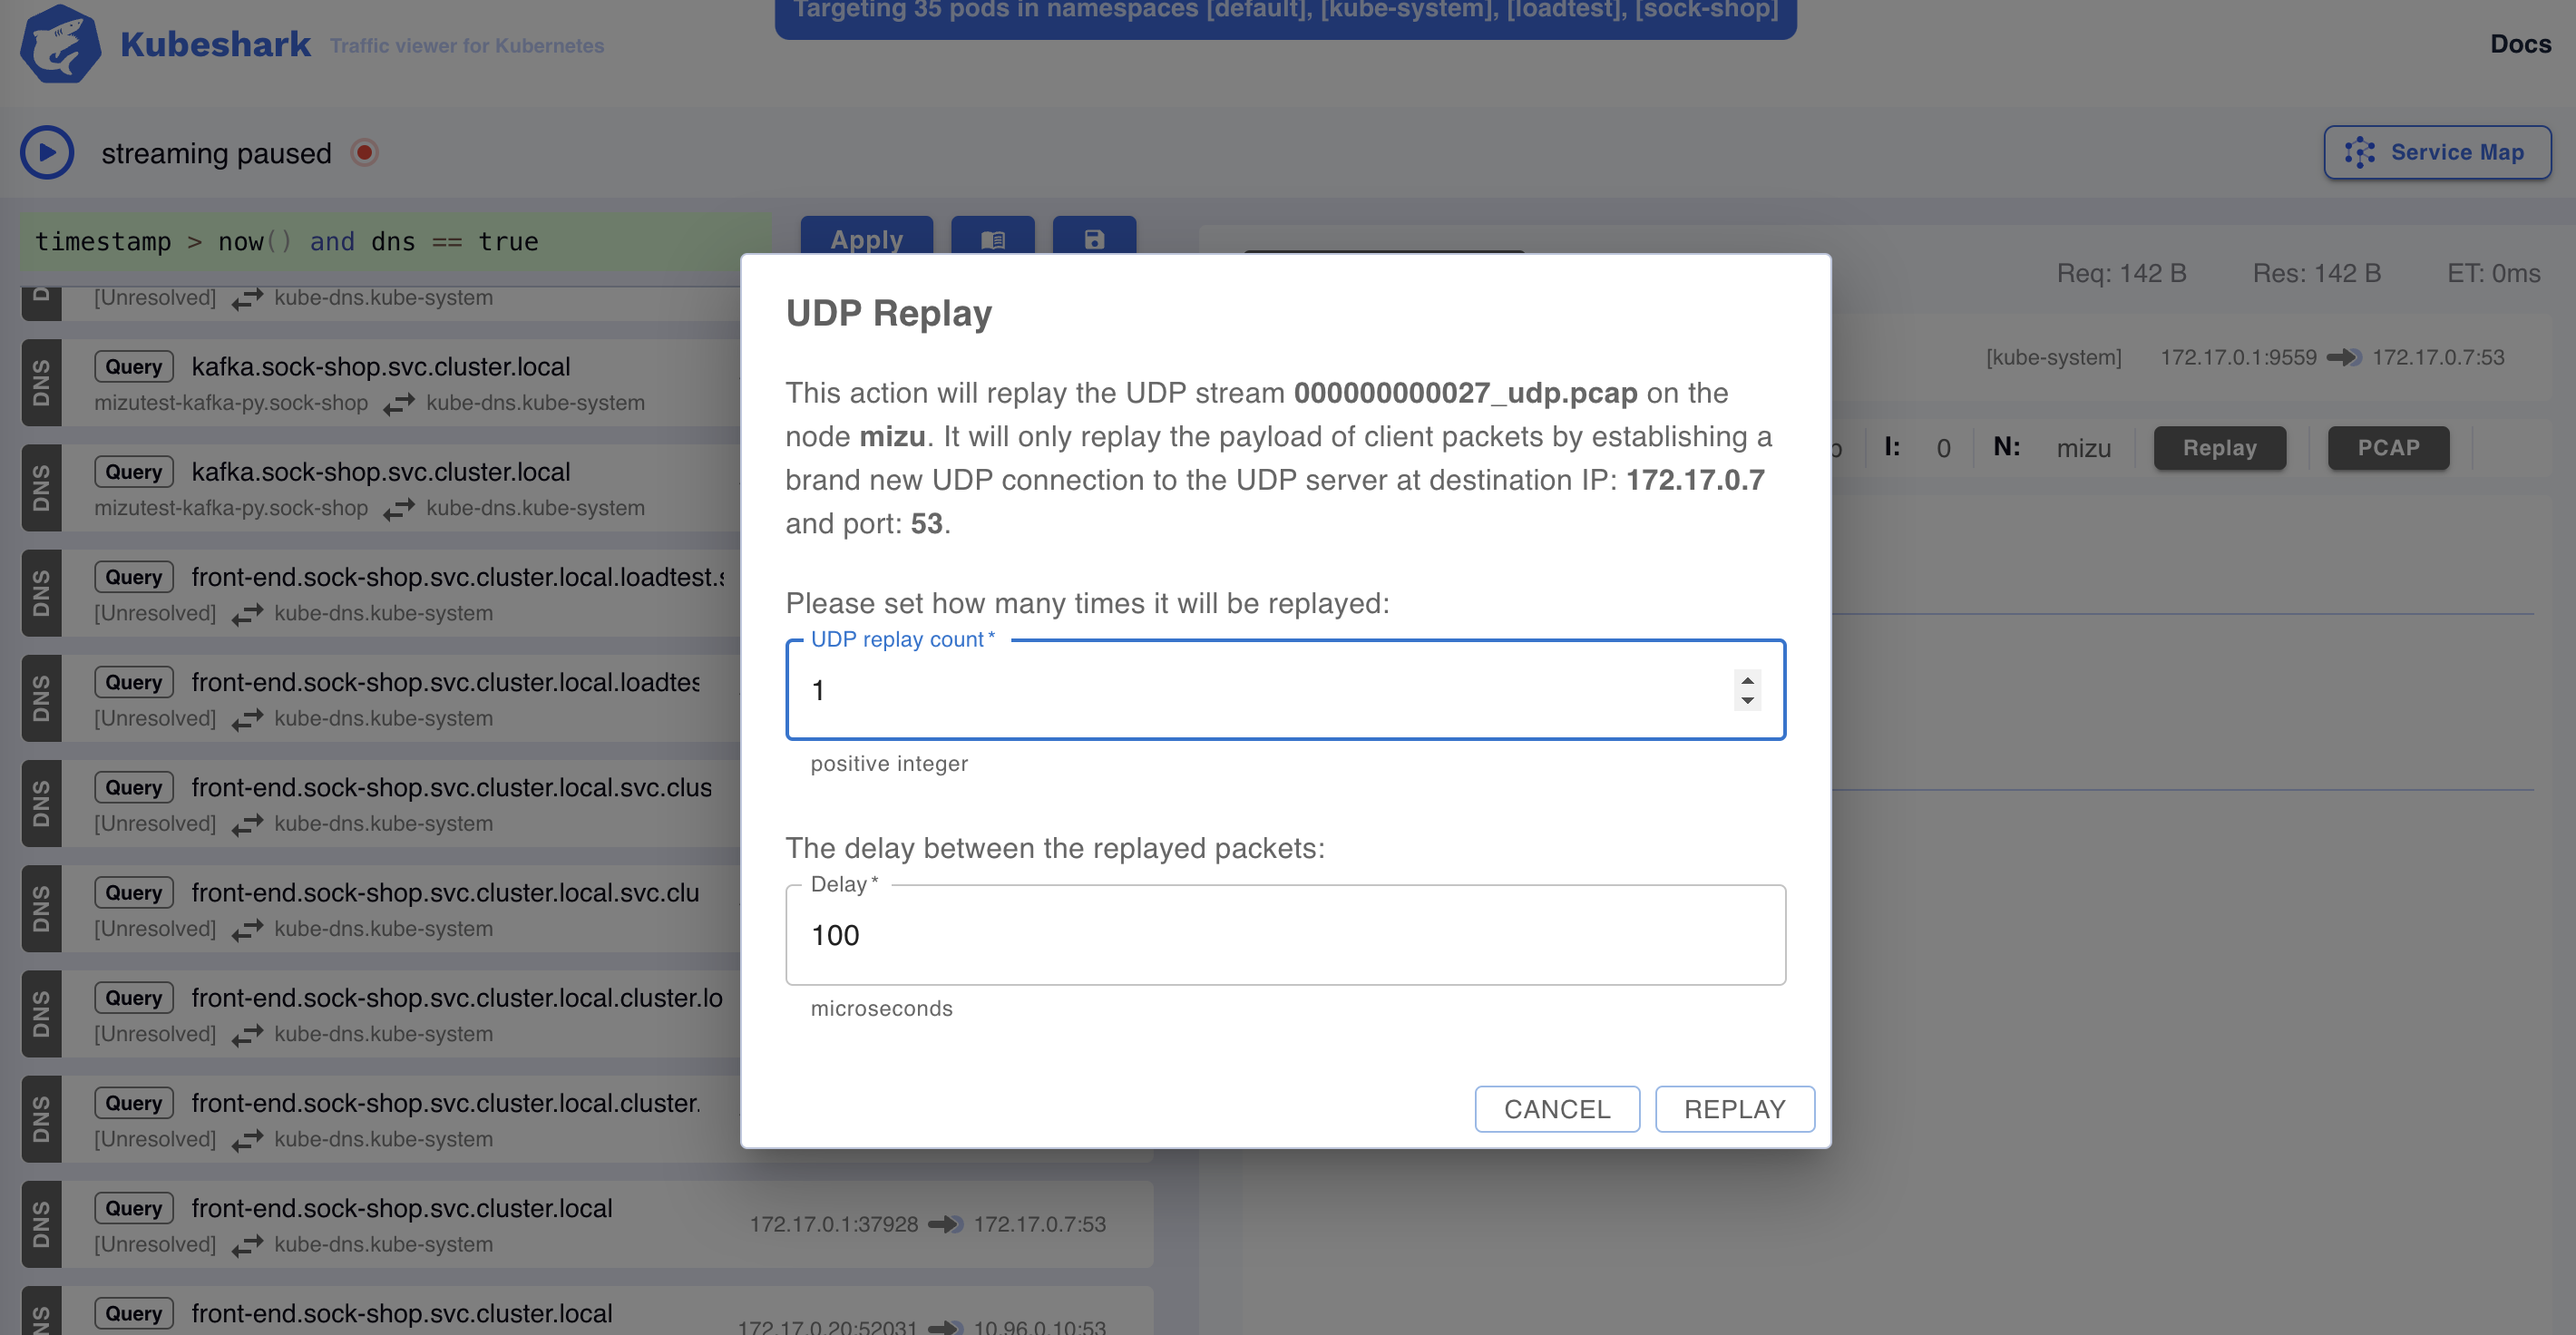
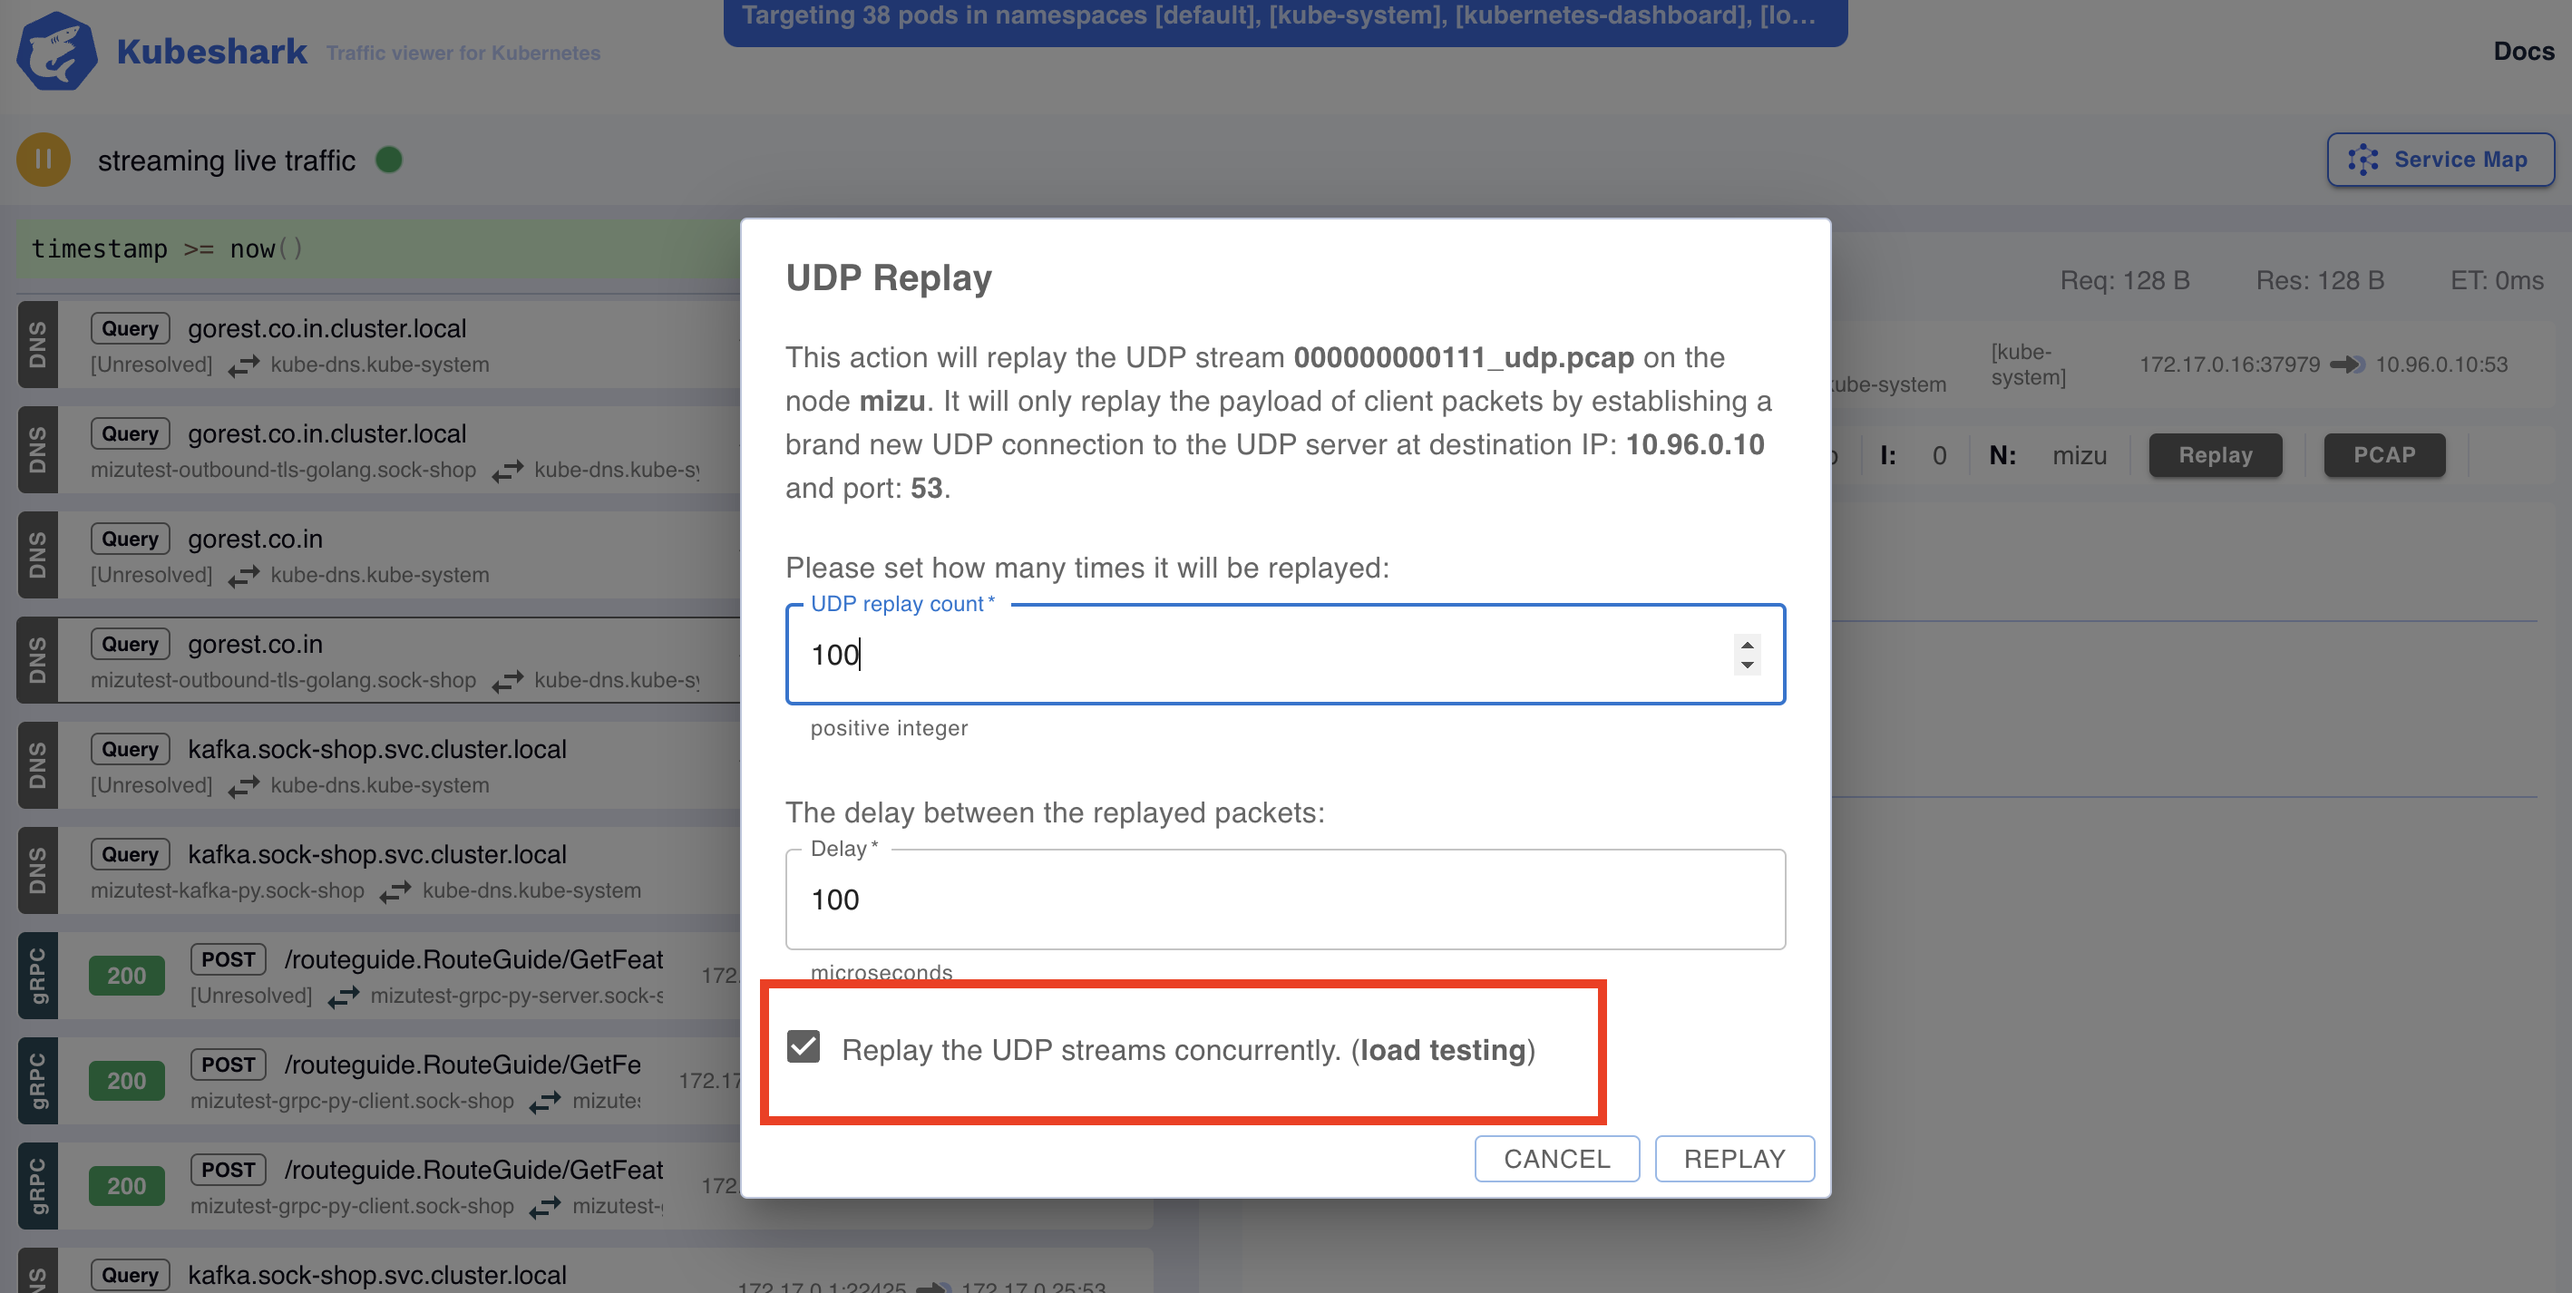
DNS stress test

diff --git a/src/pages/en/service_map.md b/src/pages/en/service_map.md
@@ -10,7 +10,7 @@ The **Service Map** provides the following information in a visual graph:
 - Label identity for internal workloads and DNS identity for external workloads
 - Connectivity information including direction indicated by arrows
 - Connection protocol indicated by the arrow color
-- Connection density indicated by the number of requests per connections
+- Connection density indicated by the number of requests and the arrow thickness
 
 ![Service Dependency Graph](/service-dependency-graph.png)
 
@@ -22,9 +22,9 @@ The **Service Map** is quite sophisticated and can be used to support multiple u
 
 ### Focus on Specific Parts of the Cluster
 
-A busy cluster can generate a very dense **Service Map**. Focus on specific parts of your cluster by using the **Service Map** in conjunction with a [KFL query](/en/filtering) to reduce the scope of analysis to only a subset of your cluster's traffic.  
+A busy cluster can generate a very dense **Service Map**. **Kubeshark** enables you to focus on specific parts of your cluster by using it in conjunction with a [KFL query](/en/filtering) to reduce the scope of analysis to only a subset of your cluster's traffic.  
 
-For example, the following query will analyze the traffic going in to two pods and out of a third pod:
+For example, the following query will analyze the ingress traffic of two pods and the egress traffic of a third pod:
 
 ![Query a Subset of Traffic](/query-subset.png)
 

diff --git a/src/pages/en/dns.md b/src/pages/en/dns.md
@@ -24,8 +24,12 @@ Use the **Service Map** in conjunction with a DNS KFL query `dns` to see all the
 
 ![DNS Service Map](/dns-map.png)
 
-### DNS Payload Replay
+### DNS Stress Test
 
-Use **Kubeshark** stores the UDP traffic stream that includes the DNS traffic, it can be used to replay the traffic at the server destination. 
+**Kubeshark** stores the UDP stream that includes the DNS traffic. The stream can be used to replay the traffic aimed at the server destination. 
+
+When used with the **load testing** option, it can be used to stress test your DNS provider (e.g. kube-dns) and see where it scales or congests.
 
 ![DNS Replay](/dns-replay.png)
+
+To activate the stress test, put any number in the **replay count** and select the **Replay the UDP streams concurrently. (load testing)** option.

diff --git a/src/pages/en/tcp_streams.md b/src/pages/en/tcp_streams.md
@@ -28,6 +28,12 @@ Use the **Replay** button to replay the TCP or UDP stream. Replaying a TCP or UD
 
 ![TCP stream Replay](/tcp-replay.png)
 
+### Stress Testing
+
+**Kubeshark** provides an option to replay the TCP or UDP stream concurrently. This capability is intended to provide an easy way to stress test the target server. 
+
+To activate the stress test, put any number in the **replay count** and select the **Replay the TCP/UDP streams concurrently. (load testing)**.
+
 ## TCP/UDP Stream Traffic Entries
 
 When you select a traffic entry from the left-pane, all the other traffic entries that belong to the same stream are marked with dashed borders:

diff --git a/src/pages/en/introduction.md b/src/pages/en/introduction.md
@@ -7,7 +7,7 @@ mascot: Hello
 
 **Through Scalable & Secure Traffic Capture**
 
-**Kubeshark** is an API Traffic Viewer for [Kubernetes](https://kubernetes.io/) providing deep visibility and monitoring of all API traffic and payloads going in, out and across containers and pods inside a Kubernetes cluster.
+**Kubeshark** is an API Traffic Viewer for [Kubernetes](https://kubernetes.io/) providing real-time, protocol-level visibility into Kubernetes’ internal network, capturing, dissecting and monitoring all traffic and payloads going in, out and across containers, pods, nodes and clusters.
 
 ![Kubeshark UI](/kubeshark-ui.png)
 
